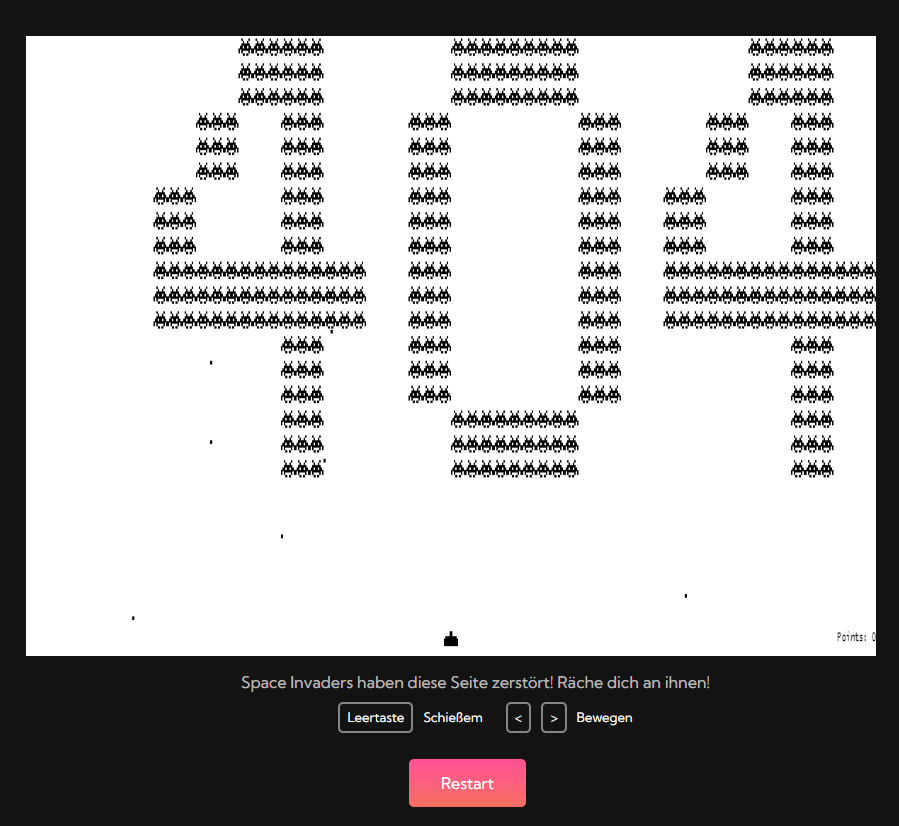
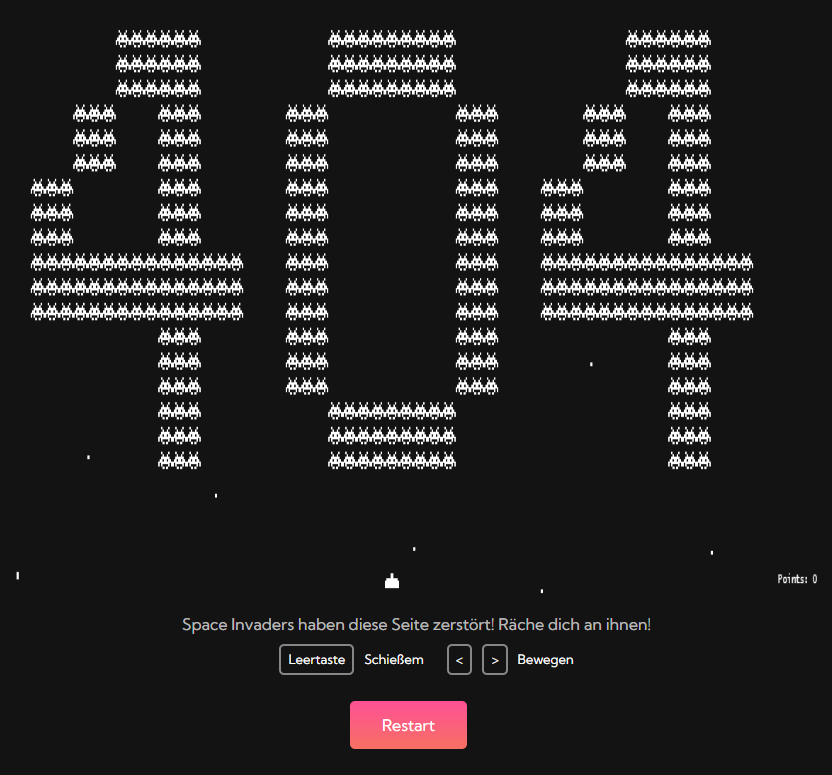
space invader improvements

diff --git a/js/space_invaders.js b/js/space_invaders.js
@@ -7,8 +7,6 @@
         gameSize,
         game;
 
-    screen.fillStyle = "white"
-
     // Assets
     var invaderCanvas,
         invaderMultiplier,
@@ -108,11 +106,11 @@
         draw: function () {
 
             if (this.lost) {
-                screen.fillStyle = "white";
+                screen.fillStyle = "rgba(46, 46, 46, 0.03)";
                 screen.fillRect(0, 0, gameSize.width, gameSize.height);
                 screen.font = "55px Lucida Console";
                 screen.textAlign = "center";
-                screen.fillStyle = "rgba(0, 0, 0, 0.03)";
+                screen.fillStyle = "white";
                 screen.fillText("You lost", gameSize.width / 2, gameSize.height / 2);
                 screen.font = "20px Lucida Console";
                 screen.fillText("Points: " + kills, gameSize.width / 2, gameSize.height / 2 + 30);
@@ -132,8 +130,7 @@
             if (!this.lost)
                 for (i = 0; i < this.invaders.length; i++) this.invaders[i].draw();
             for (i = 0; i < this.invaderShots.length; i++) this.invaderShots[i].draw();
-            //screen.fill();
-
+            screen.fill();
         },
 
         invadersBelow: function (invader) {
